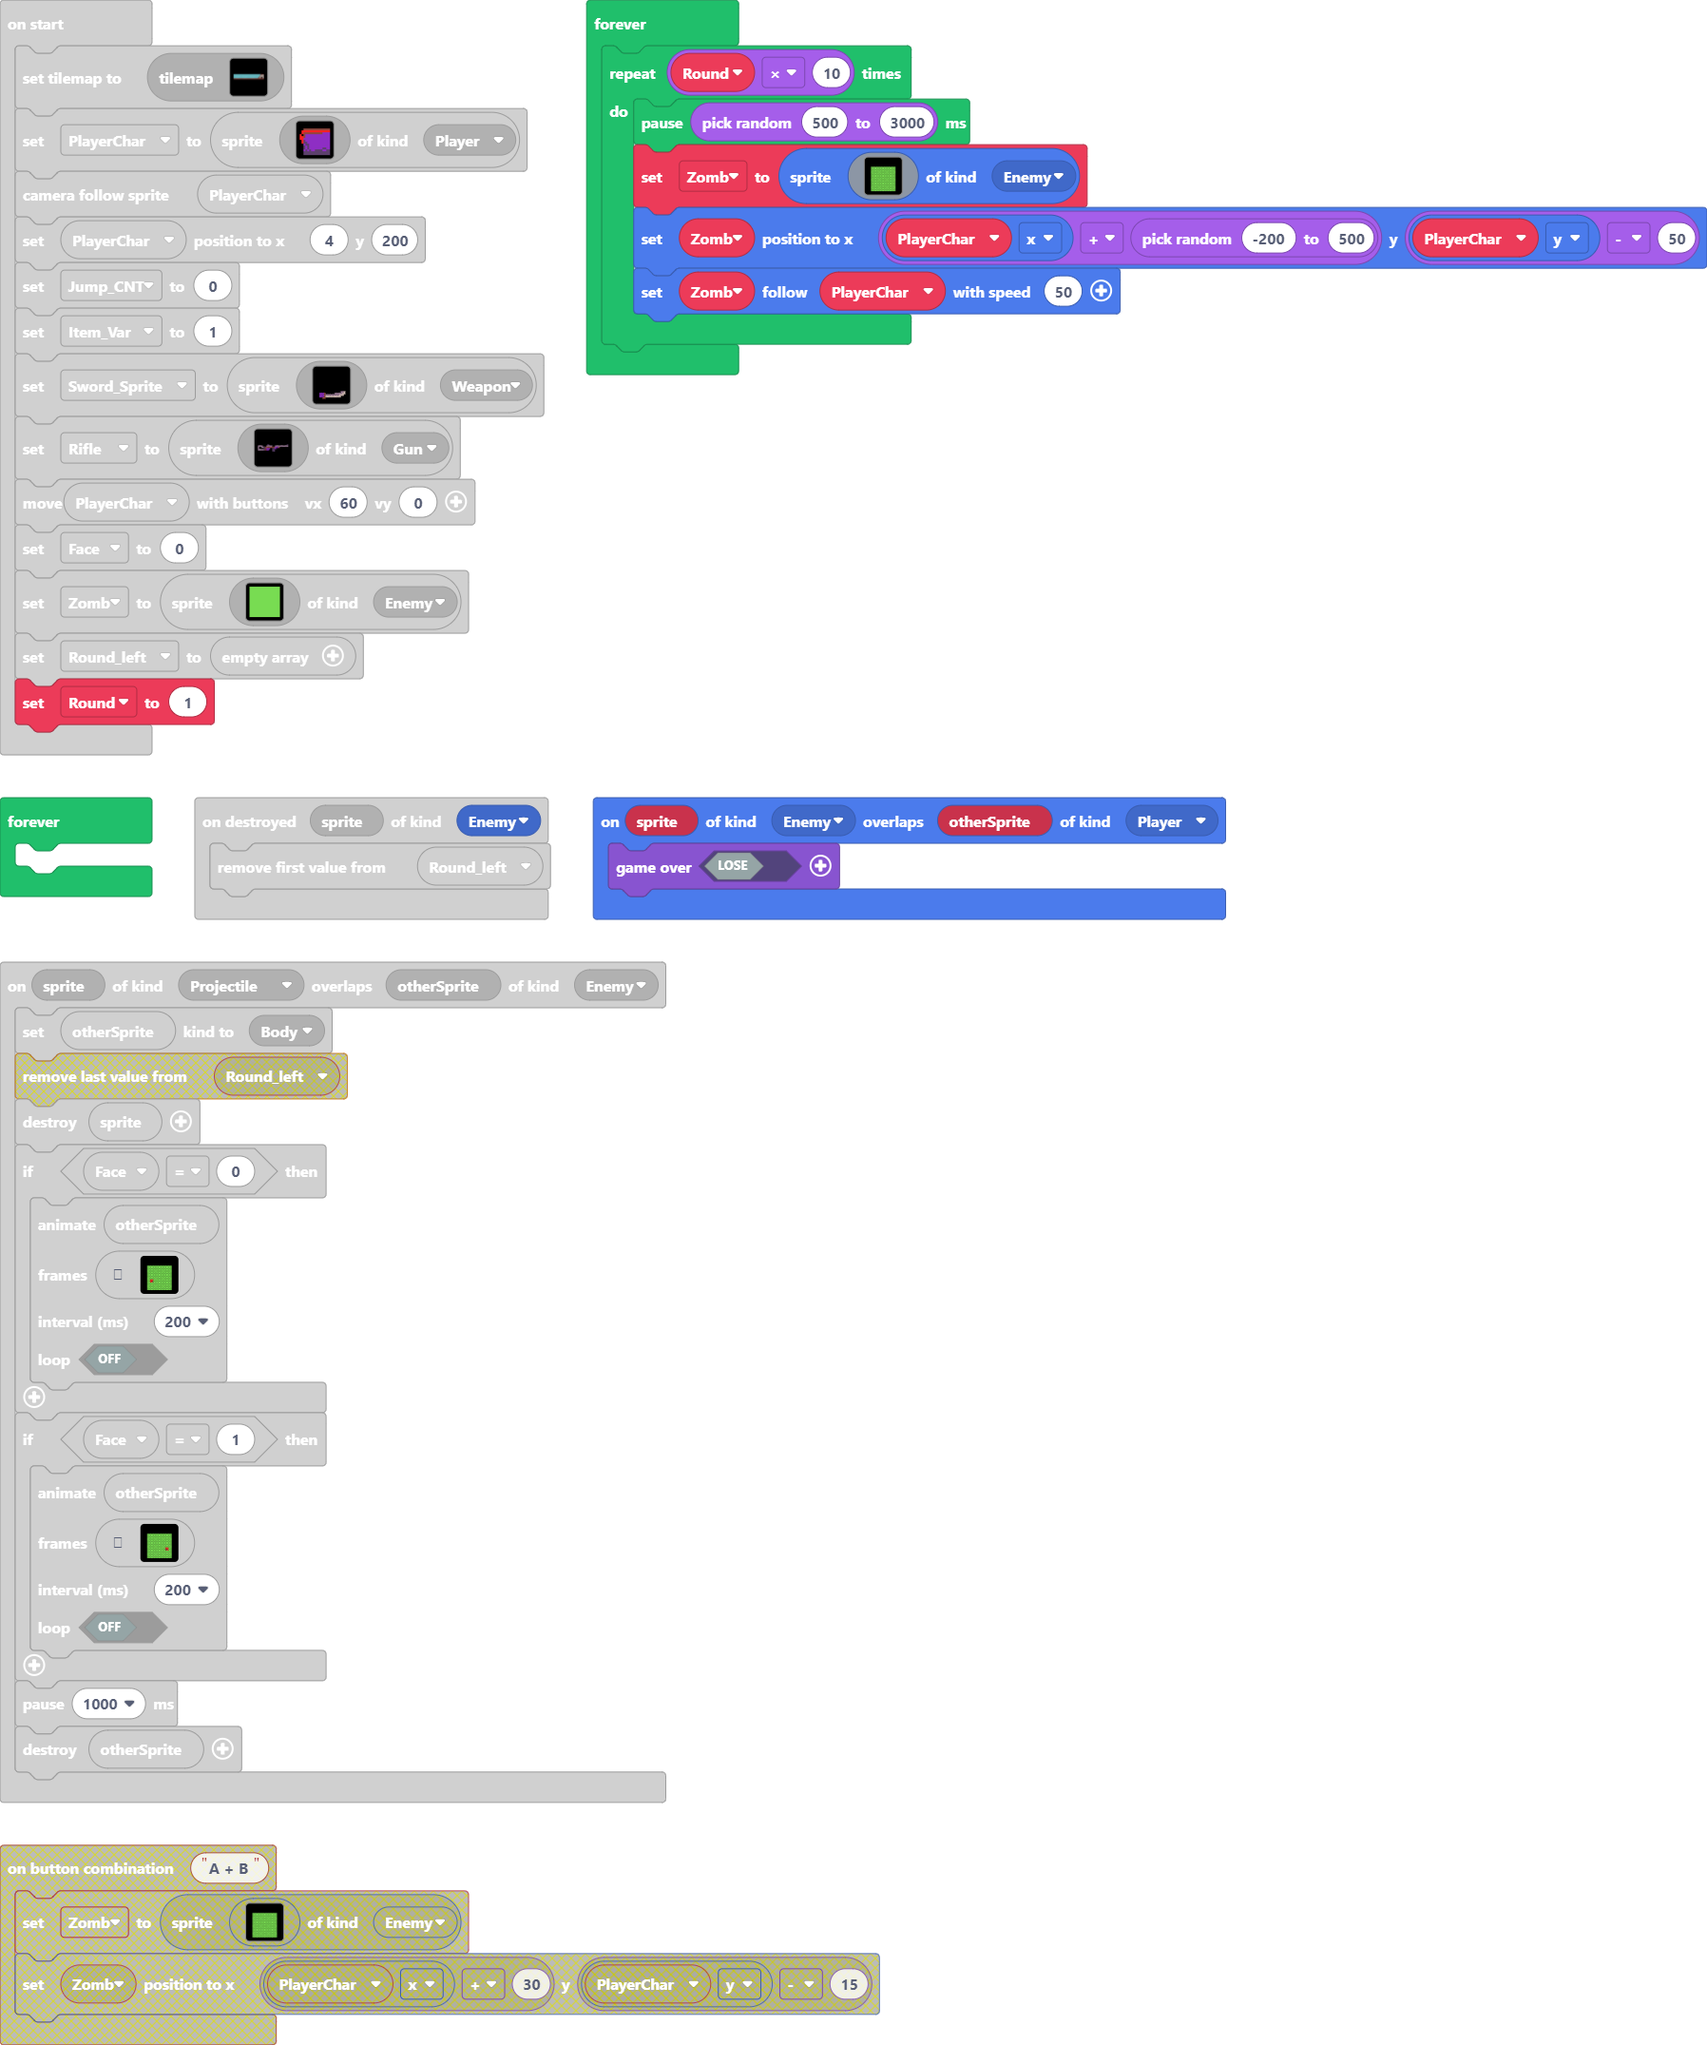
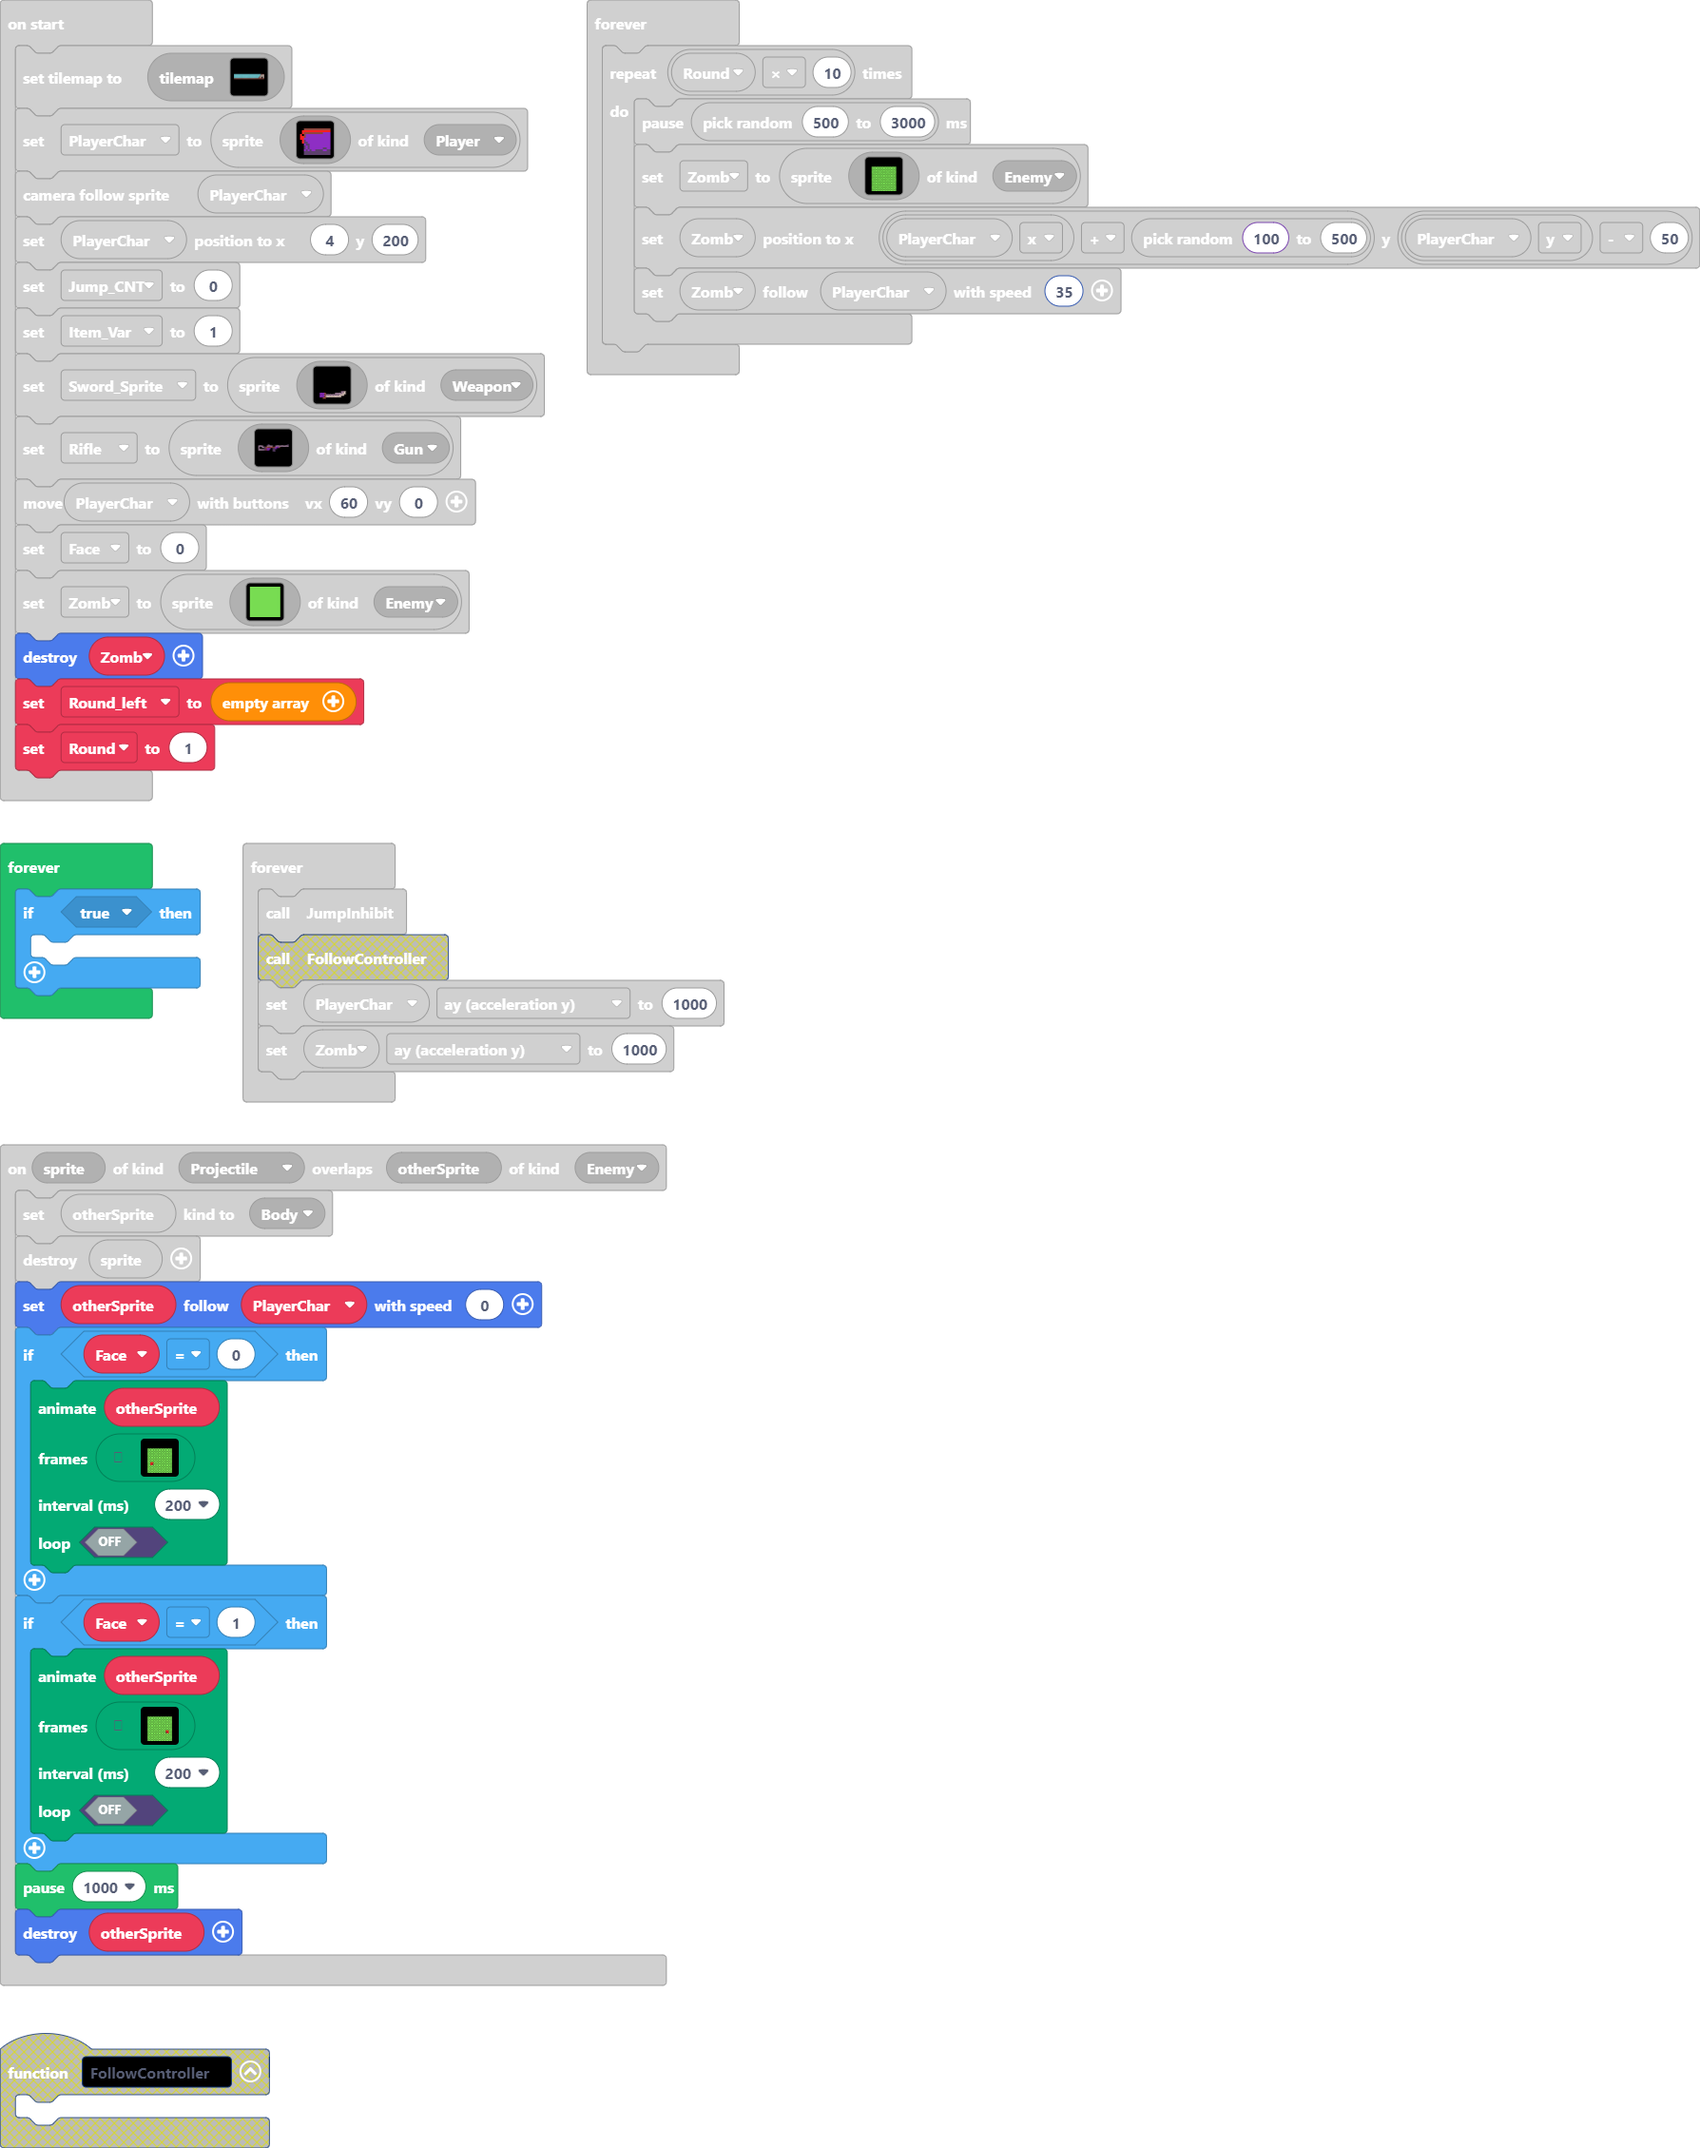
Update main.blocks, main.ts

Changed region(s): [[0.0, 0.0, 1.0, 1.0]]

diff --git a/main.ts b/main.ts
@@ -184,9 +184,6 @@ controller.right.onEvent(ControllerButtonEvent.Pressed, function () {
             `)
     }
 })
-function FollowController () {
-	
-}
 controller.A.onEvent(ControllerButtonEvent.Released, function () {
     Auto = 0
 })
@@ -834,6 +831,7 @@ function Sword_Anims () {
 sprites.onOverlap(SpriteKind.Projectile, SpriteKind.Enemy, function (sprite, otherSprite) {
     otherSprite.setKind(SpriteKind.Body)
     sprite.destroy()
+    otherSprite.follow(PlayerChar, 0)
     if (Face == 0) {
         animation.runImageAnimation(
         otherSprite,
@@ -1147,6 +1145,7 @@ let Zomb = sprites.create(img`
     7 7 7 7 7 7 7 7 7 7 7 7 7 7 7 7 
     7 7 7 7 7 7 7 7 7 7 7 7 7 7 7 7 
     `, SpriteKind.Enemy)
+Zomb.destroy()
 Round_left = []
 let Round = 1
 forever(function () {
@@ -1190,13 +1189,17 @@ forever(function () {
             ..7777777777777777..
             ..7777777777777777..
             `, SpriteKind.Enemy)
-        Zomb.setPosition(PlayerChar.x + randint(-200, 500), PlayerChar.y - 50)
-        Zomb.follow(PlayerChar, 50)
+        Zomb.setPosition(PlayerChar.x + randint(100, 500), PlayerChar.y - 50)
+        Zomb.follow(PlayerChar, 35)
+    }
+})
+forever(function () {
+    if (true) {
+    	
     }
 })
 forever(function () {
     JumpInhibit()
-    FollowController()
     PlayerChar.ay = 1000
     Zomb.ay = 1000
 })
